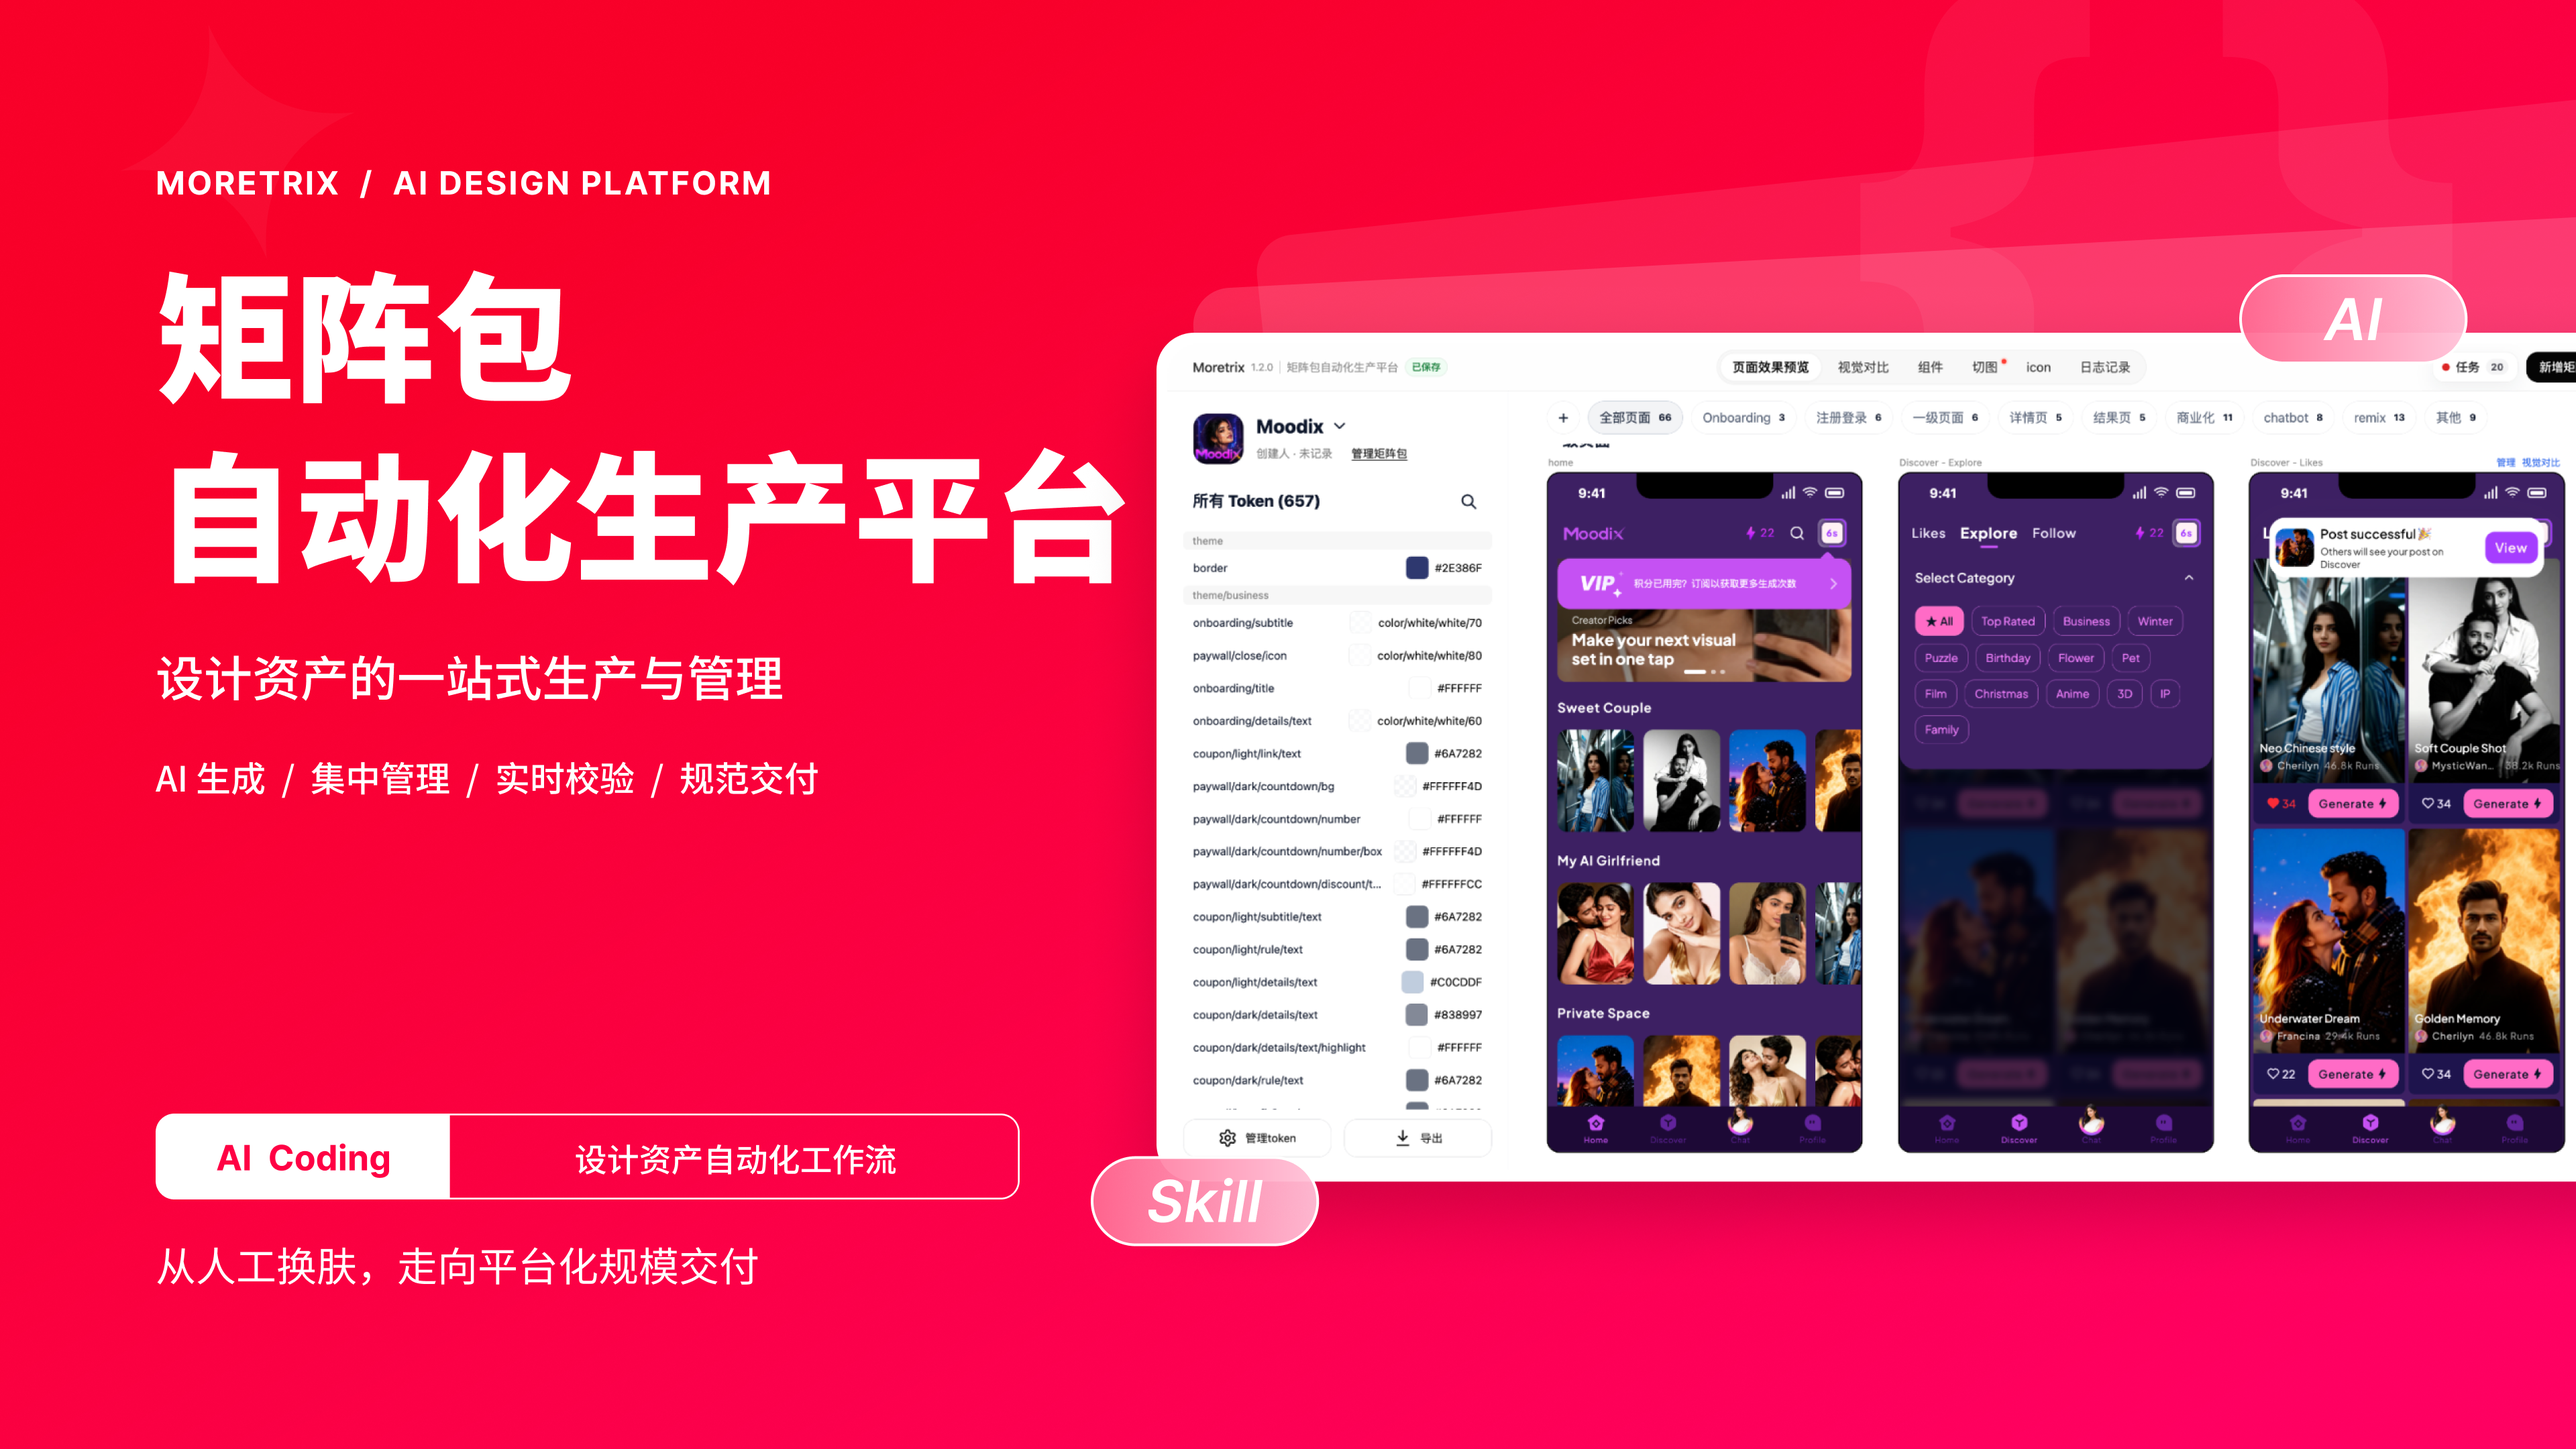
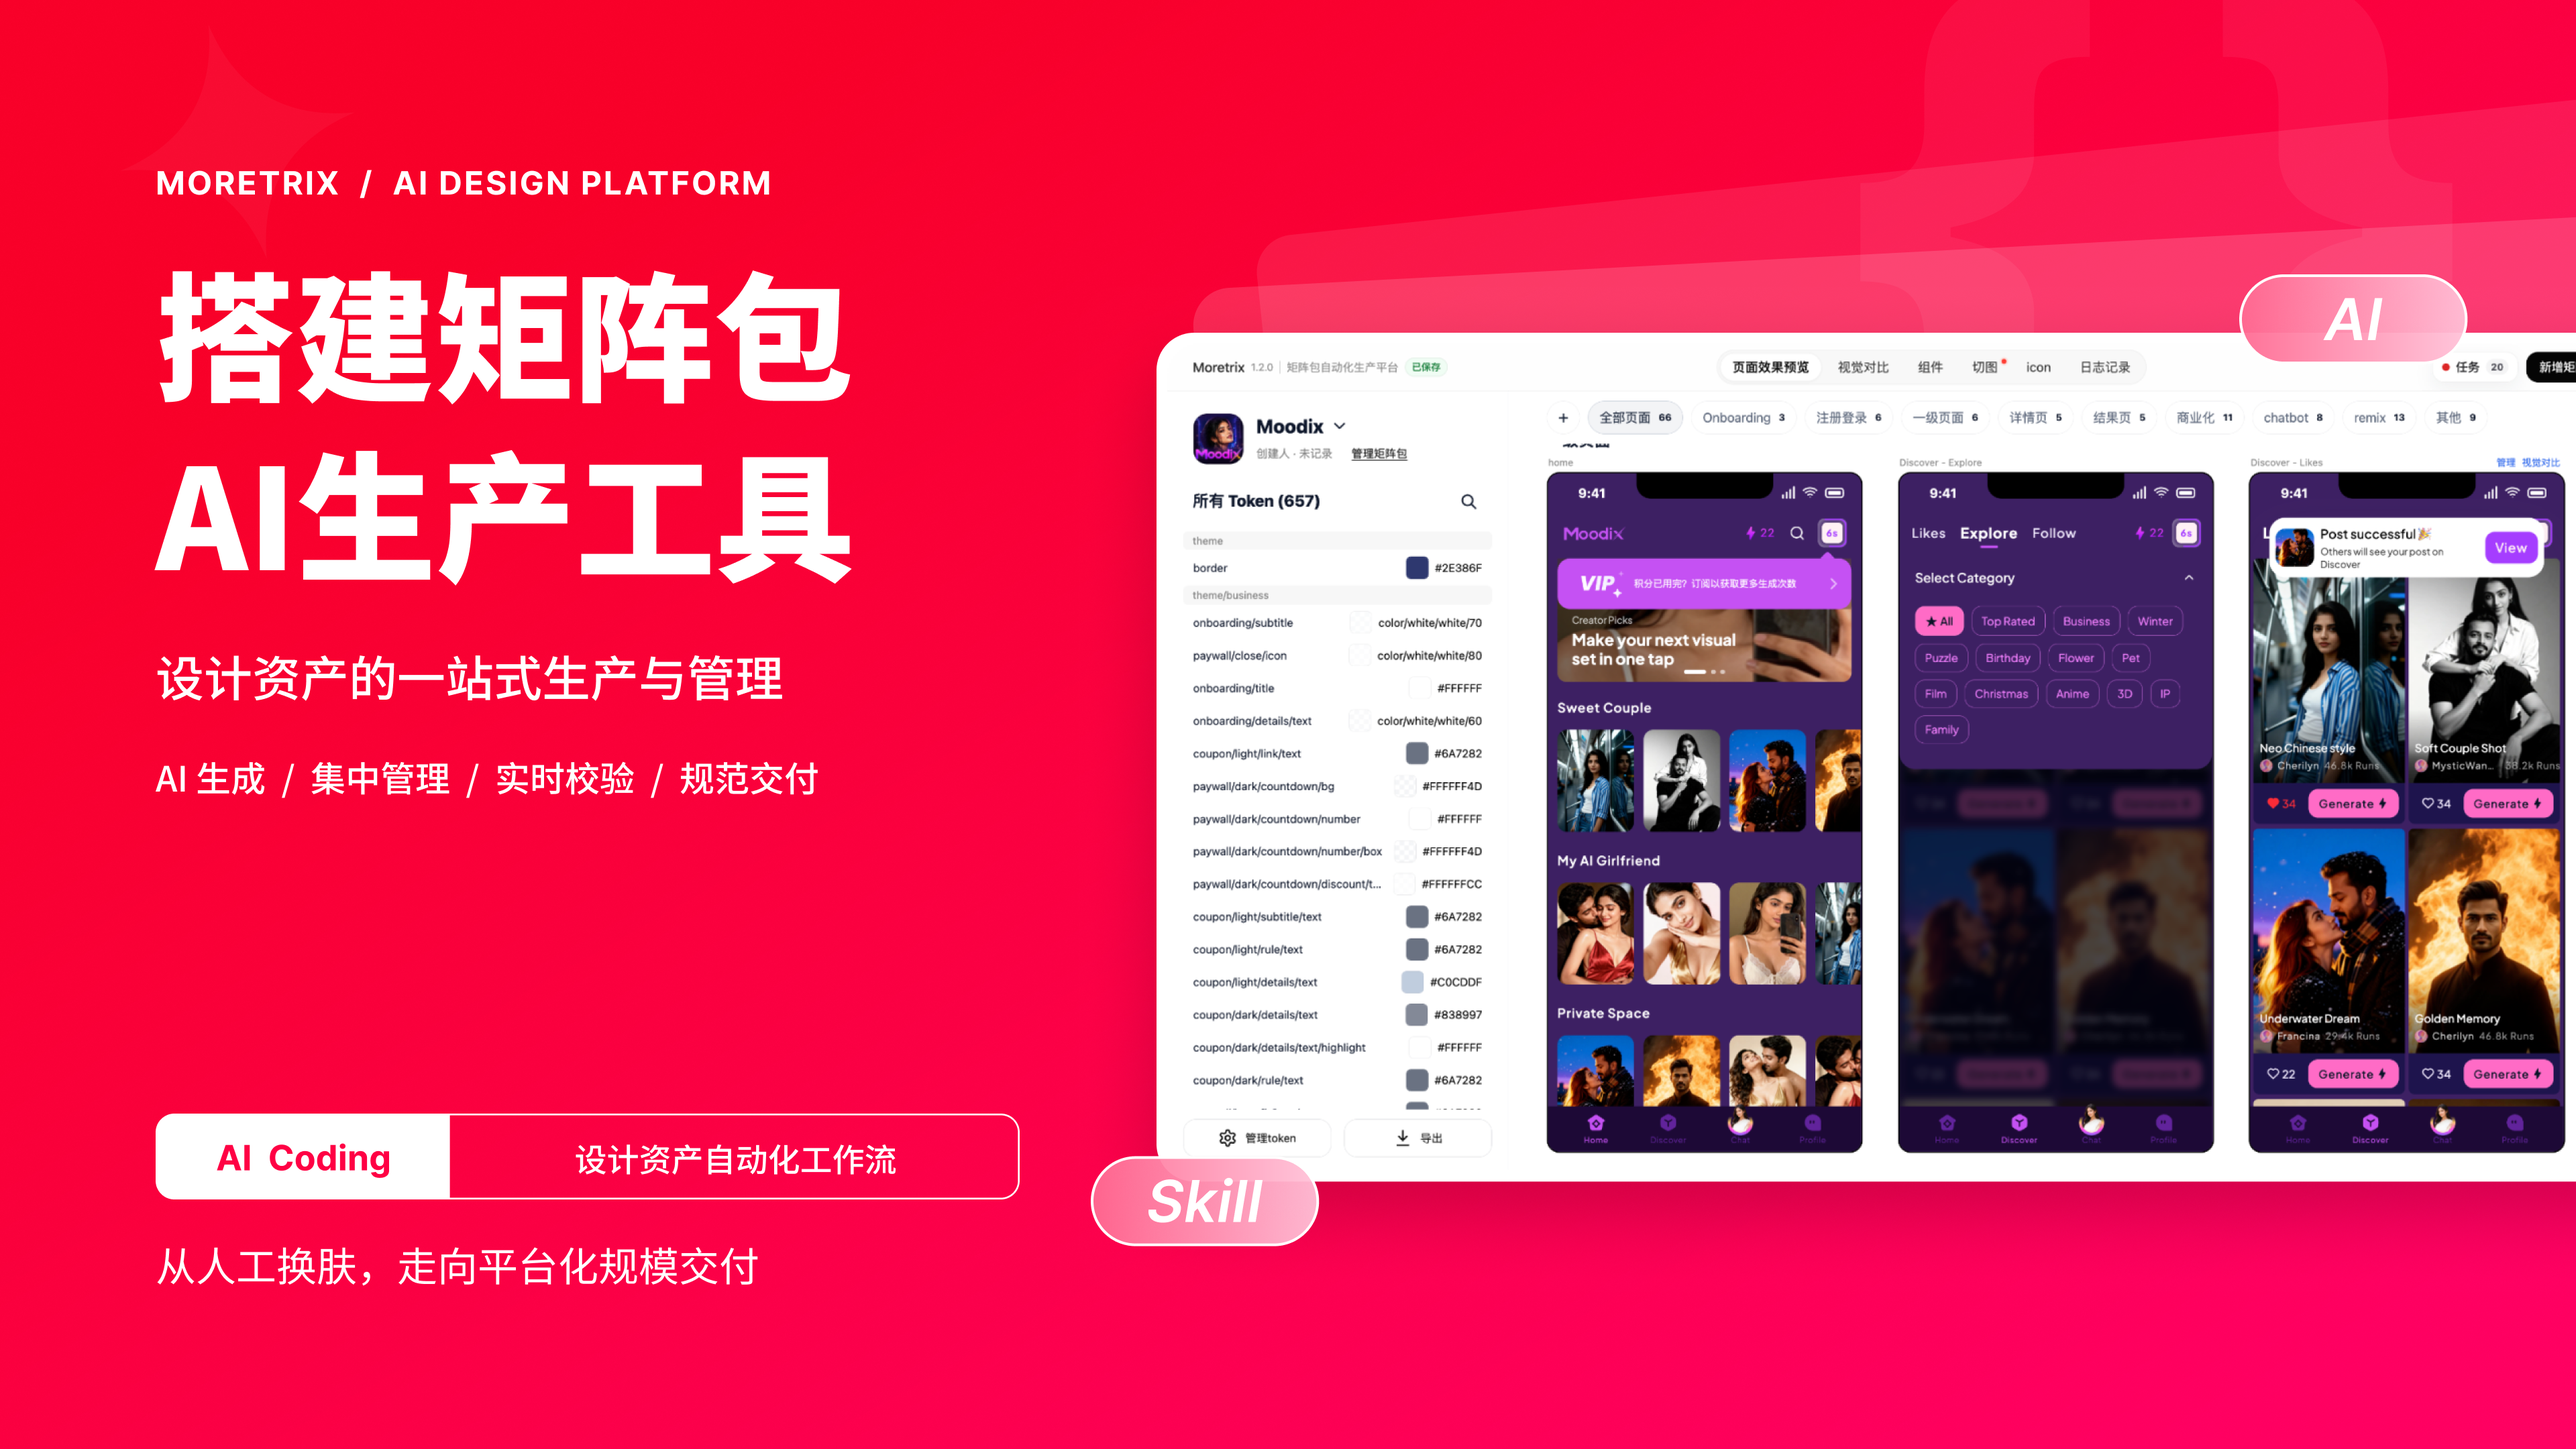
Refresh matrix project cover from latest high-resolution Figma frame

Changed region(s): [[0.0625, 0.3102, 0.4375, 0.4032], [0.0625, 0.1861, 0.3438, 0.2792]]

diff --git a/AGENTS.md b/AGENTS.md
@@ -111,3 +111,6 @@ Build app UI in `src/`. Keep `.openai/hosting.json`, `worker/index.js`, `scripts
 
 ## Approved capability-tag publication — 2026-10-26
 - User approved synchronizing source and publishing the selected tag design. Primary AI产品 uses exact #FFC400 text/dot/outline, with a 0.5px yellow border and matching translucent fill; remaining tags stay subtle charcoal/gray. This supersedes the local-review-only limitation for this change.
+
+## Updated matrix cover — 2026-10-26
+- Replace the shared homepage/detail cover with the latest Figma frame 40005208:339868, headed “搭建矩阵包 / AI生产工具”. Keep the 2× 3840×2160 export and lossless WebP; preserve all other gallery slides.
